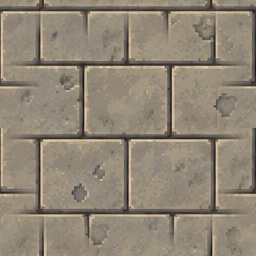
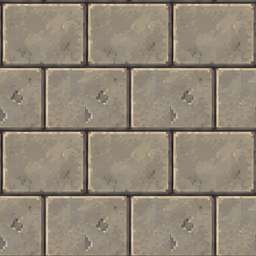
C5 P3: floor_checker and city_pavement rebuilt as exact period repeats (make_seamless --periodic); no in-place writes
Claude-Session: https://claude.ai/code/session_013g54opDJbSzBZ1hF4NWyGa

diff --git a/tools/make_seamless.py b/tools/make_seamless.py
@@ -35,6 +35,33 @@ def stats(a):
     return step, wrap
 
 
+# Patterned floors (checker squares, brick bond) can't be cross-faded: the blend
+# ghosts the pattern at the joins (c5_12 #2). Right after a fresh slice, rebuild them
+# from a clean crop of whole periods (box in the sliced 256 texture, repeats x/y):
+#   python3 tools/make_seamless.py --periodic
+PERIODIC = {"floor_checker": ((59, 58, 195, 196), (2, 2)), "city_pavement": ((81, 61, 169, 207), (3, 2))}
+
+
+def periodic(f, box, reps):
+    a = np.asarray(Image.open(f).convert("RGBA"))
+    x0, y0, x1, y1 = box
+    mos = np.tile(a[y0:y1, x0:x1], (reps[1], reps[0], 1))
+    pad = 12
+    big = np.pad(mos, ((pad, pad), (pad, pad), (0, 0)), mode="wrap")
+    H, W = mos.shape[:2]
+    sy, sx = 256 / H, 256 / W
+    im = Image.fromarray(big).resize((round(big.shape[1] * sx), round(big.shape[0] * sy)), Image.LANCZOS)
+    oy, ox = round(pad * sy), round(pad * sx)
+    o = np.asarray(im.crop((ox, oy, ox + 256, oy + 256))).copy()
+    o[..., 3] = 255
+    os.remove(f)  # hardlinked art: never write in place
+    Image.fromarray(o).save(f)
+    print("periodic", os.path.basename(f))
+
+
+if "--periodic" in sys.argv:
+    for nm, (box, reps) in PERIODIC.items():
+        periodic(os.path.join(ROOT, "art/gen/seamless/%s.png" % nm), box, reps)
 check = "--check" in sys.argv
 bad = 0
 for f in sorted(glob.glob(os.path.join(ROOT, "art/gen/seamless/*.png"))):
@@ -46,10 +73,11 @@ for f in sorted(glob.glob(os.path.join(ROOT, "art/gen/seamless/*.png"))):
         bad += flag
         print("%-28s step %5.1f wrap %5.1f %s" % (os.path.basename(f), step, wrap, "SEAM" if flag else ""))
         continue
-    if wrap <= 1.3 * step + 1:
-        continue  # already wraps
+    if wrap <= 1.3 * step + 1 or os.path.basename(f)[:-4] in PERIODIC:
+        continue  # already wraps (patterned floors: --periodic)
     o = seamless(a)
     o[..., 3] = a[..., 3]  # keep the alpha as it was (water edges etc.)
+    os.remove(f)  # hardlinked art: never write in place
     Image.fromarray(o.clip(0, 255).astype(np.uint8)).save(f)
     print("fixed", os.path.basename(f), round(wrap, 1), "->", round(stats(o)[1], 1))
 if check:
